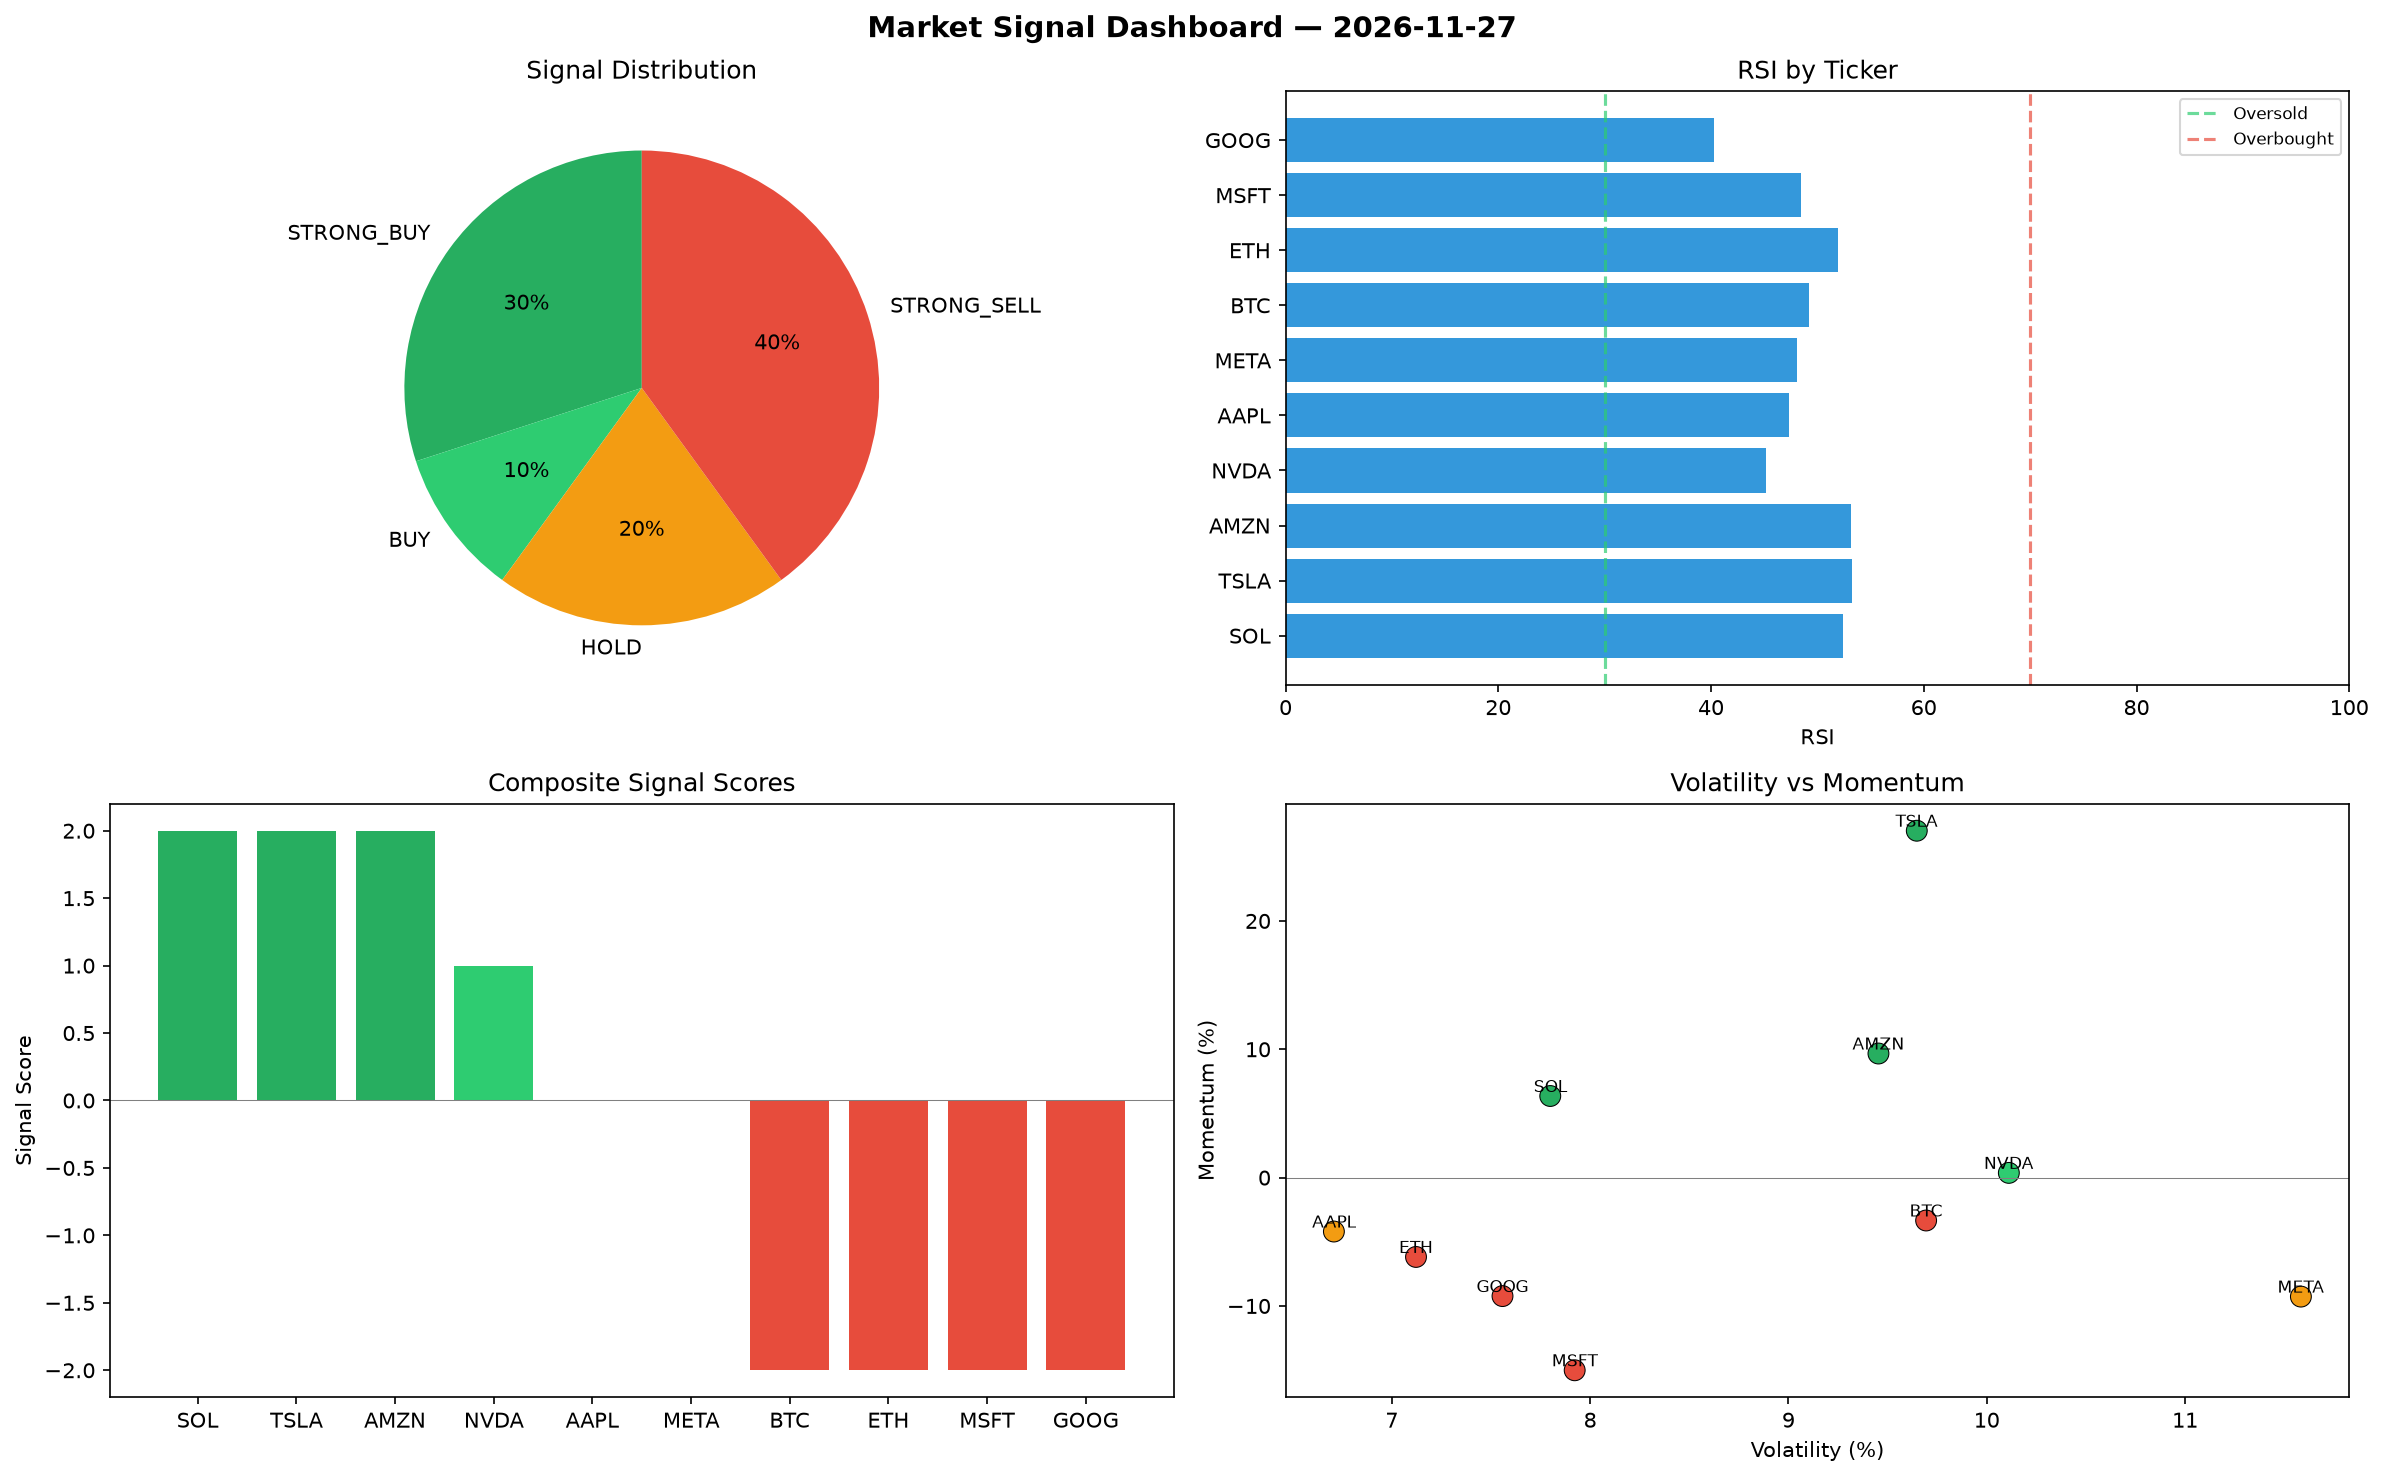
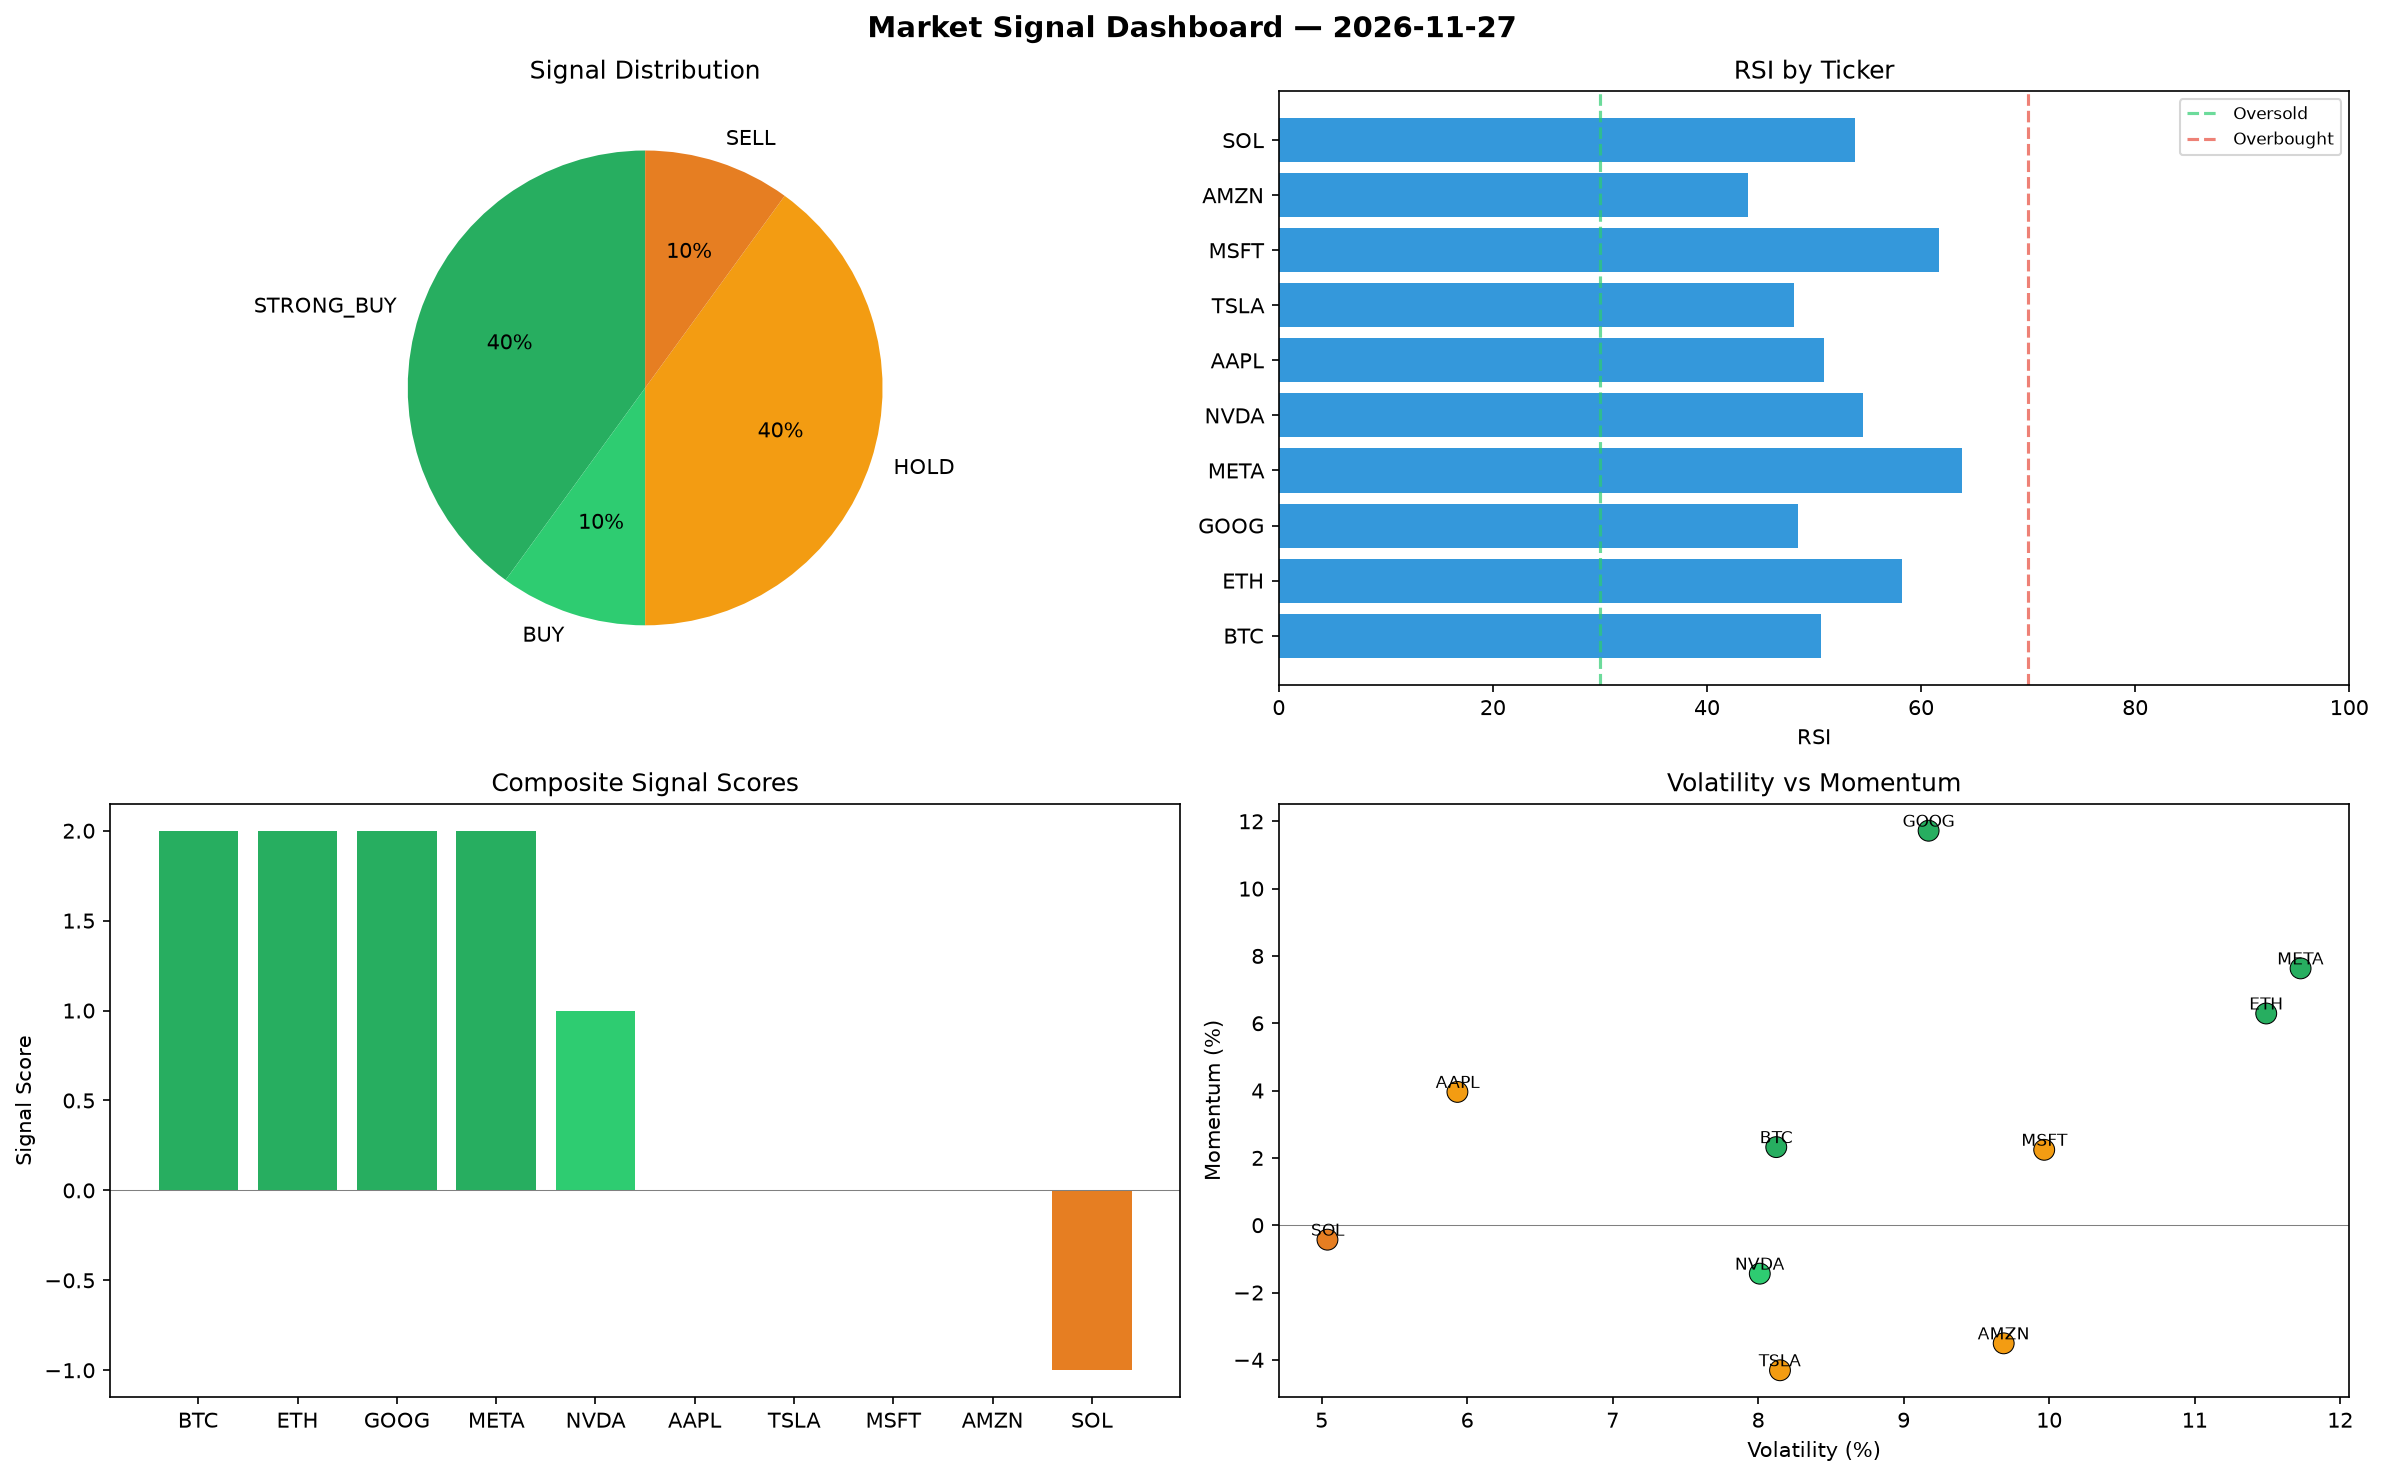
automated-bots: market signals 2026-11-27T11:09

diff --git a/logs/2026-11-27.md b/logs/2026-11-27.md
@@ -1,6 +1,6 @@
 # Market Signal Report — 2026-11-27
 
-**Run ID:** `269f0e5022` | **Buy:** 4 | **Sell:** 4 | **Hold:** 2
+**Run ID:** `36a7e77921` | **Buy:** 5 | **Sell:** 1 | **Hold:** 4
 
 ![Dashboard](2026-11-27_dashboard.png)
 
@@ -8,28 +8,28 @@
 
 | Ticker | Price | Signal | Score | RSI | Momentum | Confidence |
 |--------|-------|--------|-------|-----|----------|------------|
-| SOL | $127.62 | **STRONG_BUY** | 2 | 52.37 | 0.0636 | 0.5 |
-| TSLA | $4758.1 | **STRONG_BUY** | 2 | 53.23 | 0.2703 | 0.5 |
-| AMZN | $1756.69 | **STRONG_BUY** | 2 | 53.2 | 0.0967 | 0.5 |
-| NVDA | $3397.75 | **BUY** | 1 | 45.17 | 0.0037 | 0.25 |
-| AAPL | $3698.65 | **HOLD** | 0 | 47.31 | -0.042 | 0.0 |
-| META | $2182.99 | **HOLD** | 0 | 48.12 | -0.0927 | 0.0 |
-| BTC | $25.76 | **STRONG_SELL** | -2 | 49.17 | -0.0334 | 0.5 |
-| ETH | $3768.97 | **STRONG_SELL** | -2 | 51.98 | -0.0618 | 0.5 |
-| MSFT | $1868.79 | **STRONG_SELL** | -2 | 48.48 | -0.1501 | 0.5 |
-| GOOG | $2262.82 | **STRONG_SELL** | -2 | 40.26 | -0.0923 | 0.5 |
+| BTC | $2728.72 | **STRONG_BUY** | 2 | 50.61 | 0.0232 | 0.5 |
+| ETH | $4778.5 | **STRONG_BUY** | 2 | 58.21 | 0.0629 | 0.5 |
+| GOOG | $4891.8 | **STRONG_BUY** | 2 | 48.51 | 0.1172 | 0.5 |
+| META | $442.32 | **STRONG_BUY** | 2 | 63.87 | 0.0763 | 0.5 |
+| NVDA | $3463.31 | **BUY** | 1 | 54.53 | -0.0144 | 0.25 |
+| AAPL | $3417.87 | **HOLD** | 0 | 50.91 | 0.0396 | 0.0 |
+| TSLA | $2760.35 | **HOLD** | 0 | 48.12 | -0.0431 | 0.0 |
+| MSFT | $4188.45 | **HOLD** | 0 | 61.65 | 0.0224 | 0.0 |
+| AMZN | $3079.12 | **HOLD** | 0 | 43.87 | -0.0351 | 0.0 |
+| SOL | $461.89 | **SELL** | -1 | 53.8 | -0.0043 | 0.25 |
 
 ## Delta vs Yesterday
 
 | Ticker | Today | Yesterday | Price Change | Signal Changed |
 |--------|-------|-----------|-------------|----------------|
-| SOL | STRONG_BUY | BUY | 📉 -96.26% | ⚠ YES |
-| TSLA | STRONG_BUY | HOLD | 📈 41.32% | ⚠ YES |
-| AMZN | STRONG_BUY | STRONG_SELL | 📈 211.75% | ⚠ YES |
-| NVDA | BUY | STRONG_BUY | 📈 459.14% | ⚠ YES |
-| AAPL | HOLD | STRONG_BUY | 📈 174.47% | ⚠ YES |
-| META | HOLD | STRONG_BUY | 📈 701.57% | ⚠ YES |
-| BTC | STRONG_SELL | STRONG_SELL | 📉 -98.44% | — |
-| ETH | STRONG_SELL | HOLD | 📈 71.81% | ⚠ YES |
-| MSFT | STRONG_SELL | HOLD | 📈 116.05% | ⚠ YES |
-| GOOG | STRONG_SELL | STRONG_SELL | 📉 -16.18% | — |
+| BTC | STRONG_BUY | STRONG_SELL | 📈 65.1% | ⚠ YES |
+| ETH | STRONG_BUY | HOLD | 📈 117.83% | ⚠ YES |
+| GOOG | STRONG_BUY | STRONG_SELL | 📈 81.2% | ⚠ YES |
+| META | STRONG_BUY | STRONG_BUY | 📈 62.41% | — |
+| NVDA | BUY | STRONG_BUY | 📈 469.93% | ⚠ YES |
+| AAPL | HOLD | STRONG_BUY | 📈 153.63% | ⚠ YES |
+| TSLA | HOLD | HOLD | 📉 -18.02% | — |
+| MSFT | HOLD | HOLD | 📈 384.23% | — |
+| AMZN | HOLD | STRONG_SELL | 📈 446.43% | ⚠ YES |
+| SOL | SELL | BUY | 📉 -86.46% | ⚠ YES |
